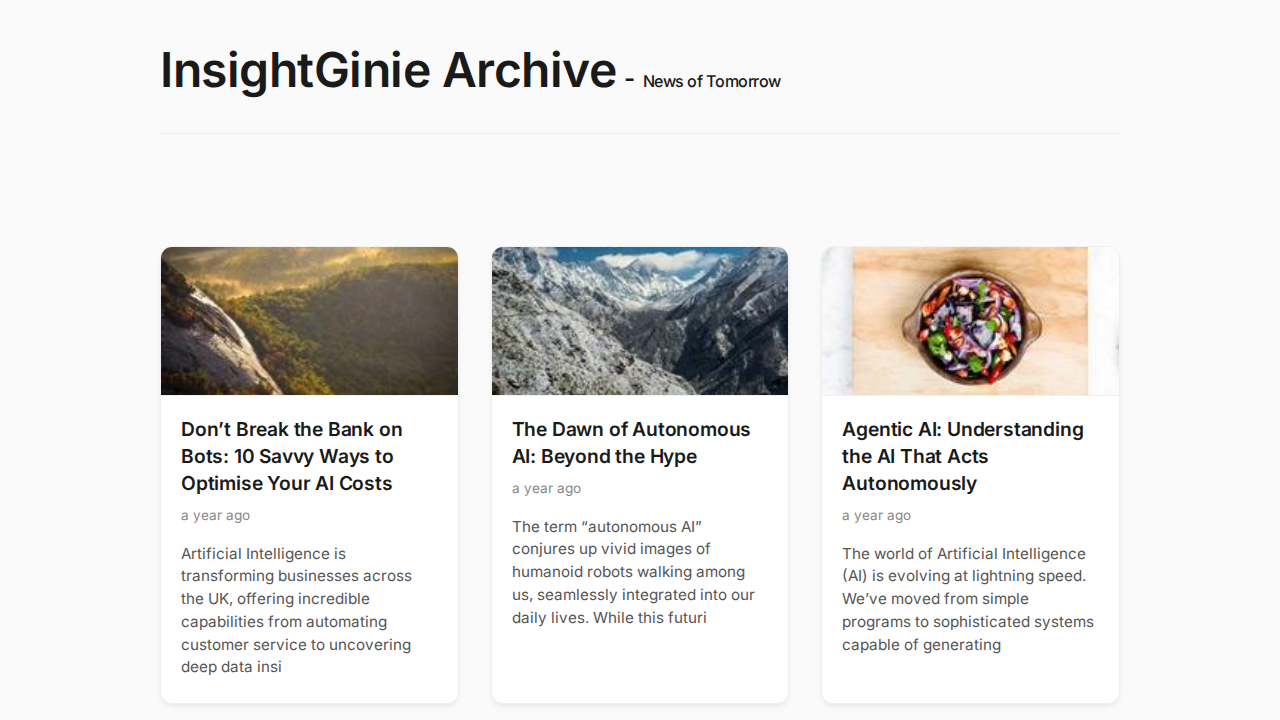
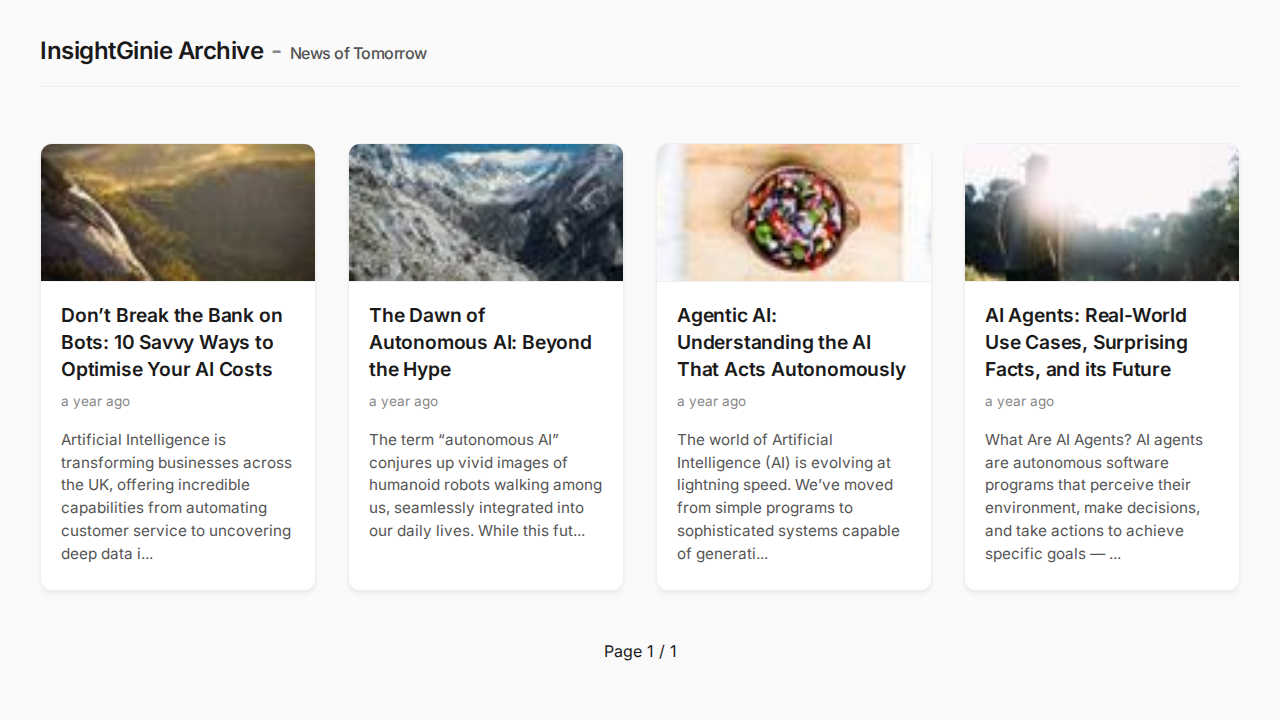
Update layout to 4 posts per row and reduce image resolution
- Expanded container max-width to 1200px
- Adjusted post list grid to minmax(250px, 1fr) to support 4 posts per row
- Decreased placeholder image resolution to 100/50 in post previews to save bandwidth

diff --git a/assets/styles.css b/assets/styles.css
@@ -17,7 +17,7 @@ body {
   background: var(--bg-color);
   -webkit-font-smoothing: antialiased;
 }
-.container { max-width: 960px; margin: 0 auto; padding: 2rem 1.5rem; }
+.container { max-width: 1200px; margin: 0 auto; padding: 2rem 1.5rem; }
 header { border-bottom: 1px solid var(--border-color); padding-bottom: 1.5rem; margin-bottom: 3rem; display: flex; align-items: center; justify-content: space-between; }
 header a { color: var(--text-primary); text-decoration: none; font-weight: 600; font-size: 1.5rem; letter-spacing: -0.5px; }
 img { max-width: 100%; height: auto; border-radius: 6px; }
@@ -26,7 +26,7 @@ a:hover { color: #1a365d; text-decoration: none; }
 
 .post-list {
   display: grid;
-  grid-template-columns: repeat(auto-fill, minmax(280px, 1fr));
+  grid-template-columns: repeat(auto-fill, minmax(250px, 1fr));
   gap: 2rem;
   padding: 0;
 }

diff --git a/assets/app.js b/assets/app.js
@@ -109,7 +109,7 @@ async function renderPage(pageNum) {
     }
     html += `<div class="post-item">
       <a href="${base}/${post.slug}" onclick="navigate('${post.slug}'); return false;">
-        <img src="https://picsum.photos/seed/${post.slug}/200/100" class="post-thumb" alt="${post.title}" loading="lazy">
+        <img src="https://picsum.photos/seed/${post.slug}/100/50" class="post-thumb" alt="${post.title}" loading="lazy">
       </a>
       <a href="${base}/${post.slug}" onclick="navigate('${post.slug}'); return false;" class="post-title">${post.title}</a>
       <span class="post-date">${timeAgo}</span>
